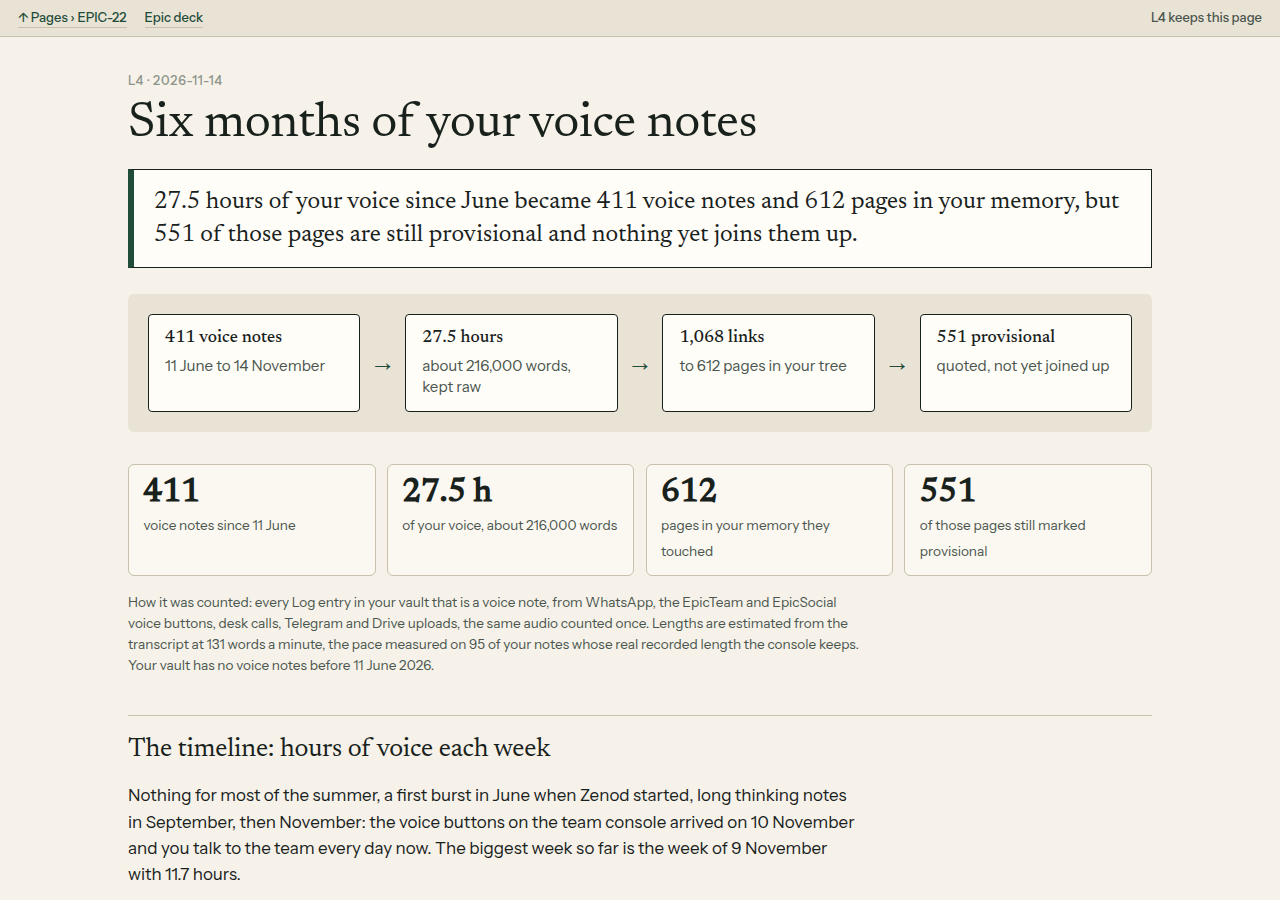
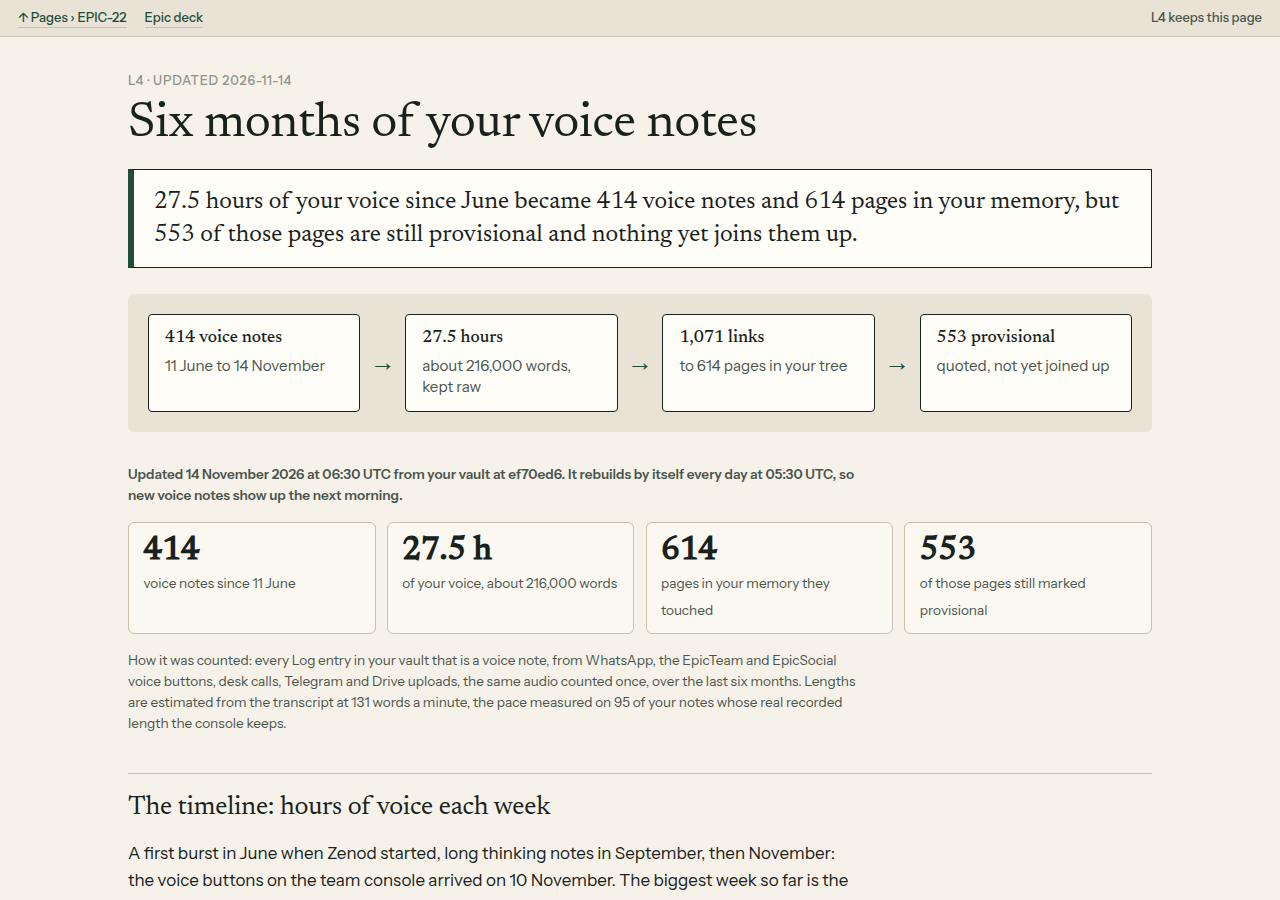
L4 iteration 2 to review: voice-notes chart pinned at :9004, rebuilt daily
Pinned read as a permanent page (no pin button exists): own unit, daily
refresh timer with an updated-at stamp, first on the EPIC-22 deck and in
the console Pages index.

Run: run_748e1bb2-e0e5-4cb4-9f6f-8ba3b8b09f0b

diff --git a/docs/zenod-is-the-librarian-of-your-memory-fo.md b/docs/zenod-is-the-librarian-of-your-memory-fo.md
@@ -30,14 +30,14 @@ Goal sentence: Zenod becomes the librarian of your memory, with four clear modes
 
 Owner: Delivery Manager (Zenod launch)
 Status: active (L3 monitoring; L2 closed by Jordi 2026-11-09)
-Last attempted: 2026-11-14T06:40Z L4 worker (run_a5d009c9): six months of Jordi's voice notes charted at http://vps3.taild81fbb.ts.net:9004/ and a three-pass re-extraction proposed at http://vps3.taild81fbb.ts.net:9005/, sampled on 10 real notes for $0.197; ask E22-A6 posted ; earlier: 2026-11-11T23:25Z Delivery Manager roll-up (run_33c3d455): L1 and L2 done, the librarian app is live with five tabs and four labelled modes ; L3 waits for Jordi to switch modes (0 switches so far), recheck 2026-11-12 ; E22-S1 and E22-S2 done and fed their asks ; E22-S4 done: typed notes answer the same as today's tree, so the tree stays ; E22-S3 starts 2026-11-24 after two quiet weeks of filing, now also carrying M11's vault-recovery finding (18c4deaa) ; the only engine change during the freeze is EPIC-14 S42, a breakage fix so new page names are no longer cut at 60 letters
-Result: 27.5 hours of his voice since June became 612 pages, 551 still provisional; reading them again in three passes would cost about $8 (E22-A6) ; the librarian app is live; the engine is frozen for stability until 24 Nov, with only fixes for breakage or wrong answers
-Evidence: [E22-L4 voice notes](evidence/e22-l4-2026-11-14.md) · http://vps3.taild81fbb.ts.net:9004/ · http://vps3.taild81fbb.ts.net:9005/ · [E22-L2 live](evidence/e22-l2-live-2026-11-09.md) · http://vps3.taild81fbb.ts.net:8921/e22-l2-live/ · [mockup round 2](evidence/e22-l2-2026-11-09.md)
+Last attempted: 2026-11-14T06:35Z L4 iteration 2 (run_748e1bb2): the voice-notes chart is now a pinned page: permanent at http://vps3.taild81fbb.ts.net:9004/ (own unit, survives restarts), rebuilt every day at 05:30 UTC from his vault with an updated-at stamp, listed first on the EPIC-22 deck and in the console Pages index; the console has no pin button, so that reading is on the card for him to correct ; earlier: 2026-11-14T06:40Z L4 worker (run_a5d009c9): six months of Jordi's voice notes charted at http://vps3.taild81fbb.ts.net:9004/ and a three-pass re-extraction proposed at http://vps3.taild81fbb.ts.net:9005/, sampled on 10 real notes for $0.197; ask E22-A6 posted ; earlier: 2026-11-11T23:25Z Delivery Manager roll-up (run_33c3d455): L1 and L2 done, the librarian app is live with five tabs and four labelled modes ; L3 waits for Jordi to switch modes (0 switches so far), recheck 2026-11-12 ; E22-S1 and E22-S2 done and fed their asks ; E22-S4 done: typed notes answer the same as today's tree, so the tree stays ; E22-S3 starts 2026-11-24 after two quiet weeks of filing, now also carrying M11's vault-recovery finding (18c4deaa) ; the only engine change during the freeze is EPIC-14 S42, a breakage fix so new page names are no longer cut at 60 letters
+Result: 27.5 hours of his voice since June became 614 pages, 553 still provisional (414 notes, refreshed daily on the pinned page); reading them again in three passes would cost about $8 (E22-A6) ; the librarian app is live; the engine is frozen for stability until 24 Nov, with only fixes for breakage or wrong answers
+Evidence: 📌 pinned: [your voice notes chart, refreshed daily](http://vps3.taild81fbb.ts.net:9004/) · [E22-L4 voice notes](evidence/e22-l4-2026-11-14.md) · http://vps3.taild81fbb.ts.net:9005/ · [E22-L2 live](evidence/e22-l2-live-2026-11-09.md) · http://vps3.taild81fbb.ts.net:8921/e22-l2-live/ · [mockup round 2](evidence/e22-l2-2026-11-09.md)
 Waiting on: his answer on E22-A6 (re-extract all voice notes?) and his look at the L4 chart ; his mode switches (L3) ; the date 2026-11-24 (E22-S3)
 Approved work: E22-A2 (build it as in mockup round 2)
 Next action: on a yes to E22-A6, run the three passes on all 411 notes (output beside the memory, stop at $15); L3 recheck on 2026-11-12; E22-S3 on 2026-11-24
 Source revision: production d9ebdd6 (cloud.zenod.dev/api/health 2026-11-11); staging e0b6d80
-Verified at: 2026-11-14T06:40Z (L4 pages curl 200 on 9004 and 9005; vault 143d82c)
+Verified at: 2026-11-14T06:35Z (L4 chart 200 on 9004 after a unit restart, updated 06:30 UTC from vault ef70ed6; daily timer next 2026-11-15 05:30 UTC)
 Monitoring: engine freeze since 2026-11-10 until 2026-11-24 · next check 2026-11-24 (E22-S3)
 
 ## Waiting on
@@ -75,7 +75,7 @@ Steps: each is independently testable and closes only with evidence.
 | L1 | Ticket worker | run_176c4648-e252-4429-9dcf-dd90f47fb9e5 | E22-1: mockup of the librarian app with four modes, one box, mode labels and tap to switch, at one URL | done (fed E22-A1) | none | main-direct (docs only) | 875a7820 | http://vps3.taild81fbb.ts.net:8921/e22-l1/ | 2026-11-09 | mockup live; E22-A1 approve ask drafted for the Delivery manager; L2 waits on his answer |
 | L2 | Ticket worker | run_4b7a90b7-6a50-4887-9c53-d60a47f093af | E22-2, E22-3: build it in the live app after the mockup is approved | done (approved by Jordi 2026-11-09) | E22-A2 approved 2026-11-09 | [#1565](https://github.com/zenod-ai/zenod/pull/1565) merged fa68fce1, live 19:46:55Z | 5b2109dd | http://vps3.taild81fbb.ts.net:8921/e22-l2-live/ ([evidence](evidence/e22-l2-live-2026-11-09.md), [card](cards/L2.md)) | 2026-11-09 | followups: started L3 |
 | L3 | Ticket worker | run_3f905070-9db4-49f5-8a2f-4d213b70c3f9 — claimed 2026-11-09T20:42Z | tune the mode pick from your switches: follow-up of L2 | active | L2 | [#1568](https://github.com/zenod-ai/zenod/pull/1568) merged aa46d5ee, live 21:52Z | e7764ec0 | [evidence](evidence/e22-l3-2026-11-09.md) | 2026-11-09 | monitoring: 0 switches, under the 15 needed; next check 2026-11-12T21:00Z: run `scripts/e22-mode-switches.mjs count` on the proxy log; at 15+ read the switches file (needs read access to that one file, an ask raised only then), run `tune`, ship with 71/72 and 128/141 held |
-| L4 | Ticket worker | run_748e1bb2-e0e5-4cb4-9f6f-8ba3b8b09f0b — claimed 2026-11-14T06:27Z, lease until 2026-11-14T08:27Z | Six months of Jordi's voice notes, charted, and a better extraction proposed: how many, how long, a timeline, what was extracted from them; then a proposal to redo extraction in two or three passes; Jordi voice note 2026-11-14 05:00Z (Log/2026-11-14.md ^e-63a29b): "how many hours of voice notes have I recorded in the last, whatever, six months? ... Can we chart just how many, the length ... Can we draw a timeline of them? And then what have we extracted from them ... Can we restart? Can we do three passes on all of it? Or what do you suggest? For me, I just want to be able to demonstrate what is the value of and how does it happen when your context compounds" | active (iteration 2, relaunched by Jordi 2026-11-14: this needs to be a pinned page) | none (re-extraction waits on E22-A6) | main-direct (docs only; pages tailnet only, off the public repo) | main | http://vps3.taild81fbb.ts.net:9004/ (chart) · http://vps3.taild81fbb.ts.net:9005/ (proposal) ([evidence](evidence/e22-l4-2026-11-14.md), [card](cards/L4.md)) | 2026-11-14 | 411 voice notes since 2026-06-11, ~27.5 h (estimated at his measured 131 wpm), 1,068 links to 612 pages, 551 provisional; sample of 10 notes re-extracted in three passes for $0.197 (83 points, 5 threads, 0 new pages); full run ~$8, under an hour, not run; zenod-social told for the 100 days post; followups: started E22-A6 (the re-extraction decision); confirm: yes — he can open the chart |
+| L4 | Ticket worker | run_748e1bb2-e0e5-4cb4-9f6f-8ba3b8b09f0b — iteration 2, 2026-11-14 | Six months of Jordi's voice notes, charted, and a better extraction proposed: how many, how long, a timeline, what was extracted from them; then a proposal to redo extraction in two or three passes; Jordi voice note 2026-11-14 05:00Z (Log/2026-11-14.md ^e-63a29b): "how many hours of voice notes have I recorded in the last, whatever, six months? ... Can we chart just how many, the length ... Can we draw a timeline of them? And then what have we extracted from them ... Can we restart? Can we do three passes on all of it? Or what do you suggest? For me, I just want to be able to demonstrate what is the value of and how does it happen when your context compounds" | review (iteration 2: pinned page, Jordi relaunch 2026-11-14 "this needs to be a pinned page") | none (re-extraction waits on E22-A6) | main-direct (docs only; pages tailnet only, off the public repo) | main | 📌 http://vps3.taild81fbb.ts.net:9004/ (pinned chart, rebuilt daily) · http://vps3.taild81fbb.ts.net:9005/ (proposal) ([evidence](evidence/e22-l4-2026-11-14.md), [card](cards/L4.md)) | 2026-11-14 | iteration 2: "pinned" read as a permanent page he keeps coming back to, since neither Zenod nor the console has a pin button: fixed link :9004 on its own enabled unit (restart proven, 200), rebuilt every day at 05:30 UTC by zenod-e22-l4-refresh.timer from a read-only clone of his vault with an updated-at stamp (first run 414 notes, 27.5 h, 614 pages, 553 provisional, vault ef70ed6), listed first on the EPIC-22 deck Evidence line and in the console Pages index (agent_team 3c8203fe); not a button on the console home, his to correct on the card; iteration 1: 411 notes since 2026-06-11, 1,068 links to 612 pages, sample of 10 notes re-extracted in three passes for $0.197; followups: started E22-A6 (the re-extraction decision); confirm: yes — only he can say this is the pinned page he meant |
 | E22-S1 | Ticket worker | run_e9da6afd-145b-4f0d-a588-619c65ec8bd6 | A memory canvas: Zenod knows how to store a learning: Like EpicSpine's product canvas, Zenod gets a canvas for kinds of memory (a learning, feedback, a decision, a fact) and stores each the right way; a product promise on the landing; plus bundles: Zenod premium includes EpicTeam and vice versa at one price, one memory. | done (fed E22-A3) | none | main-direct (docs only) | main | http://vps3.taild81fbb.ts.net:8921/e22-s1/ ([evidence](evidence/e22-s1-2026-11-10.md), [card](cards/E22-S1.md)) | 2026-11-10 | plan: seven kinds (fact, decision, learning, feedback, idea, to-do, what happened), counted on 1,102 real log entries (his own 154: to-do 40, idea 33, fact 23, learning 0); landing line drafted; bundle = one ladder, EpicTeam plans include Zenod Plus at EpicTeam's price; E22-A3 (build the canvas?) drafted for the Delivery manager, E22-A4 (bundle) waits on agent_team E97-A2; build rows B1-B6 drafted in the evidence; followups: start build the memory canvas (B1-B5) on a yes to E22-A3; park the bundle (B6) until E97-A2 and E22-A4; confirm: yes — only Jordi can say which kinds his memory keeps and what Zenod promises |
 | E22-S2 | Ticket worker | run_b4762199-92fb-448d-a009-e6c702837f6e | Research, no build: Zenod as markdown files that each say who they are, their parent and their links, rebuildable from the markdown alone; compression and connection over categories; is a fast classifier (Jev) worth it; stability first | done (fed E22-A5) | E22-S1 | none | main | http://vps3.taild81fbb.ts.net:8921/e22-s2/ ([evidence](evidence/e22-s2-2026-11-10.md)) | 2026-11-10 | verdict: nearly all true today; 305 of 305 topic pages name their parent, search and graph rebuild from the markdown alone in 2.4 s for $0 (production code 1f1ebae, read-only vault copy); one gap: the quick index side file (nicknames, Read as corrections); no fixed page id (0 of 305); long notes already cut into quoted points on pages, median 5 pages, no categories; Jev not worth it; recommend nothing now, gist line and aliases after two quiet weeks of filing; E22-A5 drafted for the Delivery manager (in the evidence), not posted; also found: 53 of 72 voice notes logged 2026-11-10 not on a topic page at 05:37Z, for EPIC-24 |
 | E22-S3 | Ticket worker | unassigned | Look again after two quiet weeks of filing: the filing record since the freeze, his reported answers, and only then the smallest next step (aliases in pages, a gist under each note) | blocked | E22-A5 | none | main | none | 2026-11-10 | date-gated: start on 2026-11-24, only if filing was quiet. Then, from E22-S4 (typed notes trial, same answers, 8 files per note), one at a time, each measured on his questions with the E22-S4 harness (~/zenod-eval/e22-s4) before it ships: (1) a gist under each Log note listing the pages it brings together (his 'situation' node); (2) each topic page writes its strongest links with their score in its own front matter, from the strengths Zenod already computes, the index staying a rebuildable cache; park one file per decision, fact or event (no better answers, 549 files from 70 notes, weak merging); typed decisions and facts, if wanted, as short typed lines inside their topic page; also on 24 Nov: EPIC-24 M11 found that vault recovery with no job on record rebuilds the note input from the Log and in a simulation did not match the saved filing plan, so the vault stayed blocked (never seen on production; evidence http://vps3.taild81fbb.ts.net:8921/e24-m11/) |

diff --git a/docs/cards/L4.md b/docs/cards/L4.md
@@ -1,22 +1,24 @@
 ---
 row: L4
 spine: zenod-is-the-librarian-of-your-memory-fo.md
-title: Your six months of voice notes were counted and charted, showing what each one became in your memory.
-goal: Show how many hours of voice notes you recorded, a timeline of them, and what Zenod extracted.
+title: Your voice notes chart became a pinned page that rebuilds itself every morning from your memory.
+goal: Keep one lasting page that shows how many voice notes you recorded and what each one became.
 delivered:
-  - ✓ 411 voice notes since 11 June, about 27.5 hours, charted week by week.
-  - ✓ Lengths, channels and the projects they fed each get one chart with a table.
-  - ✓ They touched 612 pages, 551 still provisional, and one note is shown end to end.
-  - ✗ Hours are estimated from words at your measured pace, because the audio on Drive was not read.
-evidence: [Open your voice notes chart](http://vps3.taild81fbb.ts.net:9004/)
+  - ✓ Pinned at one fixed link that comes back by itself after a restart.
+  - ✓ Rebuilt every day at 05:30 UTC with an updated line at the top.
+  - ✓ Today it counts 414 voice notes, about 27.5 hours, touching 614 pages.
+  - ✓ Listed first on the EPIC-22 deck and in your console Pages list.
+  - ✗ Not a button on your console home, because the console has no pin feature yet.
+  - ✗ Hours are still estimated from words at your measured pace.
+evidence: [Open your pinned voice notes page](http://vps3.taild81fbb.ts.net:9004/)
 screenshot: ../evidence/e22-l4-2026-11-14.png
-source: Your voice note on 14 November at 05:00, [in your Log](https://github.com/AlfaBlok/obsidian-brain/blob/main/Log/2026-11-14.md), asked “how many hours of voice notes have I recorded in the last … six months? … Can we draw a timeline of them? And then what have we extracted”
-decision: Does the chart answer your question? Reading all your notes again in three passes, for about 8 dollars, comes as its own card, and we recommend yes.
-name: voice notes chart
-after: The chart and its punchline went to zenod-social for the 100 days post.
+source: Your relaunch on the L4 card on 14 November said “this needs to be a pinned page”
+decision: Is this the pinned page you meant? If you wanted it on your console home, say so and that comes next.
+name: pinned voice notes page
+after: It keeps counting by itself, and the three pass reading waits on its own card.
 next: start: read all voice notes again in three passes, once you say yes on its card
-confirm: yes — only Jordi can say whether this answers his question about his own voice notes
+confirm: yes — only Jordi can say this is the pinned page he meant
 ---
 
-Card for EPIC-22 L4. Counts, method and the sample run: [evidence](../evidence/e22-l4-2026-11-14.md).
-The chart page and the proposal page quote Jordi's private notes, so they are served on the tailnet only and are not in this public repo.
+Card for EPIC-22 L4, iteration 2. What pinned means here and where it is pinned: [evidence](../evidence/e22-l4-2026-11-14.md).
+The chart page quotes Jordi's private notes, so it is served on the tailnet only and is not in this public repo.

diff --git a/docs/evidence/e22-l4-2026-11-14.md b/docs/evidence/e22-l4-2026-11-14.md
@@ -11,6 +11,22 @@ Both pages are served on the tailnet only, from `/var/lib/vps3-scratch/t3agent/p
 
 ![chart page, first screen](e22-l4-2026-11-14.png)
 
+## Iteration 2, 2026-11-14: a pinned page (run_748e1bb2)
+
+Jordi's relaunch: "this needs to be a pinned page".
+
+Which reading of "pinned" was made: neither Zenod nor the console has a pin button (searched the console's Pages index, home and milestone deck code in agent_team `core/console` and `hosted/console`: no pin, star or bookmark for pages). So "pinned" was read as a permanent page he keeps coming back to, always current.
+
+| | Where it is pinned | Proof |
+|---|---|---|
+| ✓ | One fixed link, http://vps3.taild81fbb.ts.net:9004/, on its own enabled unit `zenod-e22-l4-chart` (user linger on, so it comes back after a reboot) | `systemctl --user restart zenod-e22-l4-chart` then curl: 200 at 06:30Z |
+| ✓ | Rebuilt every day at 05:30 UTC by `zenod-e22-l4-refresh.timer` (Persistent, so a missed run catches up), from a read-only clone of his vault, with an "Updated ... from your vault at <commit>" line at the top | first run 06:30Z: 414 notes, 27.5 h, 614 pages, 553 provisional, 1,071 links, vault ef70ed6 |
+| ✓ | First item on the EPIC-22 deck's Evidence line, marked 📌 pinned | spine Current State |
+| ✓ | Console Pages index, under zenod EPIC-22, titled "Pinned: your voice notes and what they became, refreshed daily" | agent_team 3c8203fe, `docs/pages/registry.json` |
+| ✗ | Not a button or strip on the console home, because none exists; building one is a console change he can ask for on the card | — |
+
+The page now counts the last six months from the day it is built, so the window moves forward. The refresh script is kept privately in `/var/lib/vps3-scratch/t3agent/artifacts/e22-l4-data/refresh/` (owner only, it reads his vault). The iteration 1 page is kept beside it as `index-iteration1.html`.
+
 ## How it was counted
 
 - Source: obsidian-brain `Log/*.md` at 143d82c (2026-11-14 05:44Z). A voice note is an entry with `content-type: voice_note` or `audio`, or a title naming a voice note, a WhatsApp ptt or a voice transcript. Typed text, images and summaries are left out. 517 candidates came down to 420 voice entries. After removing duplicate ingests of the same Drive file or the same transcript, 412 were left. 411 have words and fall inside the six months.
